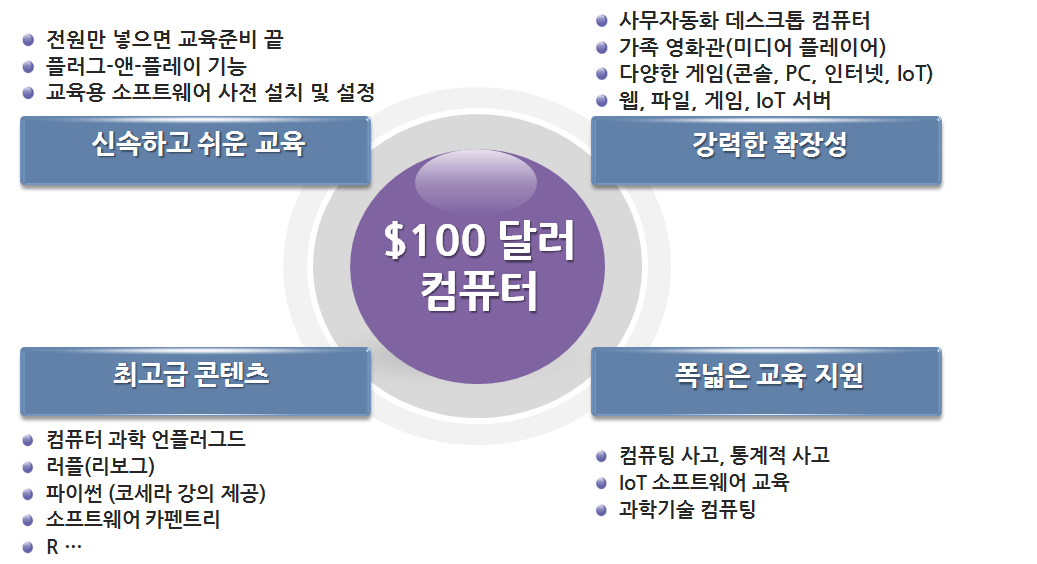
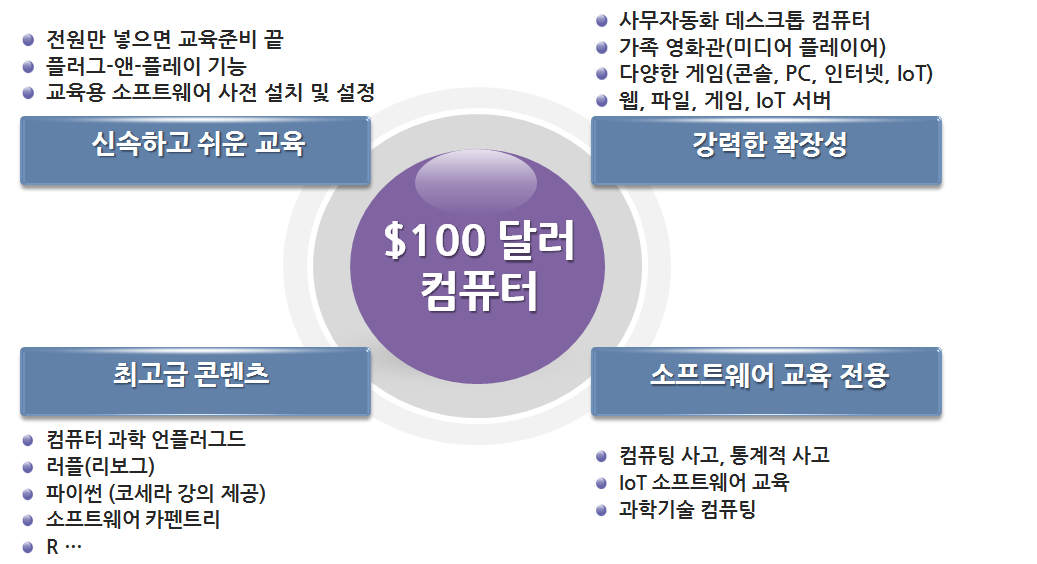
commit 100 dollar computer initial page

Changed region(s): [[0.6172, 0.633, 0.864, 0.6933]]

diff --git a/_includes/footer.html b/_includes/footer.html
@@ -6,8 +6,7 @@
         <div class="col-lg-offset-3 col-lg-6">
             <div class="row">
               <div class="col-xs-12 text-center">
-                <small>&copy; rifyll theme, 2014, 
-                Powered by <a href="http://www.ibm.com/cloud-computing/kr/ko/softlayer/"><img src="/img/softlayer.png" width="47" height="23" alt="hosting services" /></a> </small>
+                <small>&copy; rifyll theme, 2014</small>
               </div>
             </div>
         </div>

diff --git a/computer/index.md b/computer/index.md
@@ -29,33 +29,88 @@ date: 2015-07-01 23:51
 1. 플러그-앤-플레이 기능과 소프트웨어가 사전 설치되어 교육 자체에 신속히 몰입할 수 있게 도와줍니다.
 1. 전세계에서 선택된 최고급 교육 콘텐츠를 무료로 제공하여 드립니다.
     - 무료제공되는 [파이썬 교재](http://python.xwmooc.org)는 [코세라(Coursera)](https://www.coursera.org/specializations/python)에서 강의 교재로 사용되고 있습니다.
-    - [소프트웨어 카펜트리](http://software-carpentry.org/)는 과학 컴퓨팅(Scientific Computing)을 위한 소프트웨어 기술보급에 매진하고 있는   
+    - [소프트웨어 카펜트리](http://software-carpentry.org/)는 과학 컴퓨팅(Scientific Computing)을 위한 소프트웨어 기술보급 활동을 전세계적으로 활발히 추진하고 있고, [xwMOOC](http://swcarpentry.xwmooc.org/)에서 '14년부터 활발히 참여하고 있습니다.   
+    - 뉴질랜드 팀벨 교수가 주도가 되어 ‘90년대부터 시작된 [컴퓨터 과학 언플러그드](http://csunplugged.org)는 컴퓨터 없이 컴퓨터 과학 개념을 잡을 수 있는 컴퓨터공학 비전공자가 처음 시작하는 교재로 많이 활용되고 있고, [xwMOOC 언플러그드](http://unplugged.xwmooc.org/)에서 한글화되어 무료로 제공하고 있습니다.
+    - 캐나다 Andre Roberge 총장이 주도되어 2000년대 중반부터 시작된 [러플(RUR-PLE)](http://rur-ple.sourceforge.net/)은 현재 [Reeborg](http://reeborg.ca/)로 확장되어 새로이 시작되고 있고, [xwMOOC 러플](http://rur-ple.xwmooc.org/)은 [GitHub 저장소](https://github.com/statkclee/rur-ple)에서도 만날 수 있다.
+1. 리눅스 운영체제를 기반으로 안정되게 다양한 기능을 제공합니다.
+    - 사무자동화 데스트톱 컴퓨터
+    - 가족 영화관 (미디어 플레이어)
+    - 콘솔, PC, 인터넷, IoT 게임
+    - 웹서버, 파일 서버, IoT 서버, 미디어 서버 등 
+1. 소프트웨어 교육 전용 컴퓨터   
+    - 컴퓨팅 사고(Computational Thinking)과 통계적 사고 및 논리적 사고 향상
+    - 과학기술 컴퓨팅(Scientific Computing)
+    - IoT(사물 인터넷) 및 피지컬 컴퓨팅(Physical Computing) 교육
 
 <img src="fig/benefits-of-100-computers.png" alt="사고체계와 대한민국" width="70%" />
 
+### $100 달러 컴퓨터 구성
 
+<img src="fig/100-dollar-computer-tear-down.png" alt="$100 달러 컴퓨터 구성요소" width="70%" />
 
-### $100 달러 컴퓨터 개발 필요성
+#### 하드웨어
+
+|              구분        |      라즈베리 파이 2 (모델 B) |
+|:----------------------:|:---------------------------------:|
+| SOC(System-on-Chip)  |  BCM2836           |
+| GPU                  |  브로드컴 VideoCore IV      |
+| CPU                  | ARM Cortex A7 900 MHz |
+| 주기억장치            |  1 GB                              |
+| USB 포트            | 4                                     |
+| 이더넷 포트           | 1                                     |
+| 가격                    | $35                                 |
+| 전력                    | 800 mA (5V)                    | 
+| 하드디스크            | 마이크로SD (16GB)           |
+| 컴퓨터 케이스        | xwMOOC 특허 케이스         |
+
+#### 소프트웨어
+
+- [파이썬 2, 3](https://www.python.org/)
+- [아나콘다](http://continuum.io/)
+- [러플(Rur-ple)](http://rur-ple.sourceforge.net/)
+- [소프트웨어 카펜트리](http://software-carpentry.org/workshops/setup.html)
+- [R](https://www.r-project.org/)
+
+#### 콘텐츠
+
+- [컴퓨터과학 언플러그드 3.1](http://unplugged.xwmooc.org/)
+- [소프트웨어 카펜트리 5.2](http://swcarpentry.xwmooc.org/)
+- [러플(Rur-ple)](http://rur-ple.xwmooc.org/)
+- [정보교육을 위한 파이썬](http://python.xwmooc.org/)
+- [R 팩키지](http://r-pkgs.xwmooc.net/)
+- [라즈베리 파이](http://raspberry-pi.xwmooc.org/)
+
+### $100 달러 컴퓨터로 할 수 있는 것 (일부)
  
-전설적 넷스케이프 웹브라우져를 만든 마크 앤드리슨은 월스트리트 저널 기사, [Why Software Is Eating The World](http://www.wsj.com/articles/SB10001424053111903480904576512250915629460)을 통해 소프트웨어가 세상을 집어 삼키고 있다고 표현했고, 개인적으로 본다면 
-SXSW 2010년에 이미 [Douglas Rushkoff](http://www.youtube.com/watch?v=imV3pPIUy1k)는 `프로그래밍 하느냐 프로그래밍 되느냐(Program or be Programmed)`를 선택해야 되는 시대가 되었다. 하지만, 컴퓨터적 사고를 갖춘 융합인력 수요의 지속적 증가에도 불구하고, 융합시대를 견인할 IT융합 인력 부족하다.
+<img src="fig/raspberry-pi-fullstack-toolchain.png" width="70%" />
 
-- 10대 IT융합분야 IT융합인력 수요전망 : ('12년) 2,388 &mdash; ('14년) 2,676  &mdash; ('16년) 2,943 (한국직업능력개발원,'13년)
-- 방송통신 소프트웨어 활용도는 50%가 넘고, 제조업 전반에 소프트웨어 활용도가 증가하고 있으나 KAIST를 비롯한 컴퓨터 관련 학과 전공자는 줄어들고 있음
+#### 1. 가정 영화관 (Home Theater) 
 
-![삼성경제연구소 산업별 소프트웨어 활용도(산출물 1억 생산에 SW 활용지수)](/img/seri-sw-research-2011.png)
+라즈베리 파이 2는 기존 브로드컴 BCM2835칩을 개선한 BCM2836칩을 사용하는데, H.264 형식을 사용해서 고해상도 비디오 정보를 고속으로 전송할 수 있다. 가족용 영화관 구성을 위해서 크기가 작고, 저전력이며 조용한 운영방식이 필요한데 라즈베리파이는 이 요건을 잘 충족하고 있다.
 
-### 개발 기술의 독창성 및 도전성
+#### 2. 사무 자동화 (오피스) 
 
-- **(문제정의)** 기존 컴퓨터 교육은 고비용, 비효율
-    1. 윈도우, 맥, 리눅스 플랫폼 기반 컴퓨터 교육을 별도 실시해야 함
-    1. 컴퓨터 하드웨어, 소프트웨어, 코드와 데이터, 콘텐츠 등 준비해야 함
-    1. 학습자가 컴퓨터 교육 실시 전 환경설정에 많은 시간 및 노력 소요됨
+워드, 한글, 파워포인트 등 사무작업을 위한 [마이크로소프트 오피스](https://products.office.com/ko-KR/)가 상업용으로 많이 사용되고 있지만, 마이크로소프트 상용 오피스 제품에 대응되는 공개 오피스 소프트웨어도 다양하다. 
+[리브레 오피스(LibreOffice)](http://www.libreoffice.org/)는 기존 [오픈 오피스(Open Office)](http://www.openoffice.org/) 개발에 참여한 인력이 나와서 만든 공개 오피스 제품으로 아래한글 뿐만 아니라 마이크로소프트 오피스와도 기능적 별반 차이가 없다. 최근에는 오피스 작업 파일간 호환성도 많이 개선되어 평균적인 기능을 사용한다는 측면에서 공개 소프트웨어 활용도가 많이 높아졌다.
 
-- **(xwMOOC 해결책)** : $100 달러 컴퓨터
-    1. 컴퓨터에 사전 설치되어 즉시 교육 실시 
-    1. 컴퓨터 하드웨어, 소프트웨어, 코드, 데이터, 콘텐츠, 네트워크 
-    1. 별도 모니터 필요없이 TV 연결하여 온전한 컴퓨터 변신
-    1. $100 달러 (약 10만원) 컴퓨터로 착한 가격
+[리브레오피스 한국어 사이트](http://ko.libreoffice.org/)에서 공식적인 정보를 얻을 수 있으며, Pootle 서버를 통해서 [한국어 번역](https://translations.documentfoundation.org/)어 번역이 활발히 진행되고 있다. [다큐먼트 재단 홈페이지](http://www.documentfoundation.org)가 공식 홈페이지이며, 과학 IT 동아에서 [무료 오피스의 진수, '리브레 오피스'](http://it.donga.com/21009/) 제목으로 리브레 오피스에 대해 기사로 소개가 되었다.
 
-![$100 컴퓨터](/img/100-dolloar-computer.png)
+|   | 국문 | 영어 | 설명                                                                                        |
+|---|:--------:|:--------:|---------------------------------------------------------------------------------------------|
+| <img src="fig/80px-LibreOffice_3.3.1_Writer_Icon.png" width="30%" />    |  라이터  |   Writer | 워드프로세서 프로그램으로 마이크로소프트 워드와 비슷하며 기본적인 위지위그 편집기를 지녔다. |
+| <img src="fig/80px-LibreOffice_3.3.1_Calc_Icon.png" width="30%" />    |   캘크   |     Calc | 스프레드시트 프로그램이다. 마이크로소프트 엑셀 또는 로터스 1-2-3과 비슷하다.                |
+| <img src="fig/80px-LibreOffice_3.3.1_Impress_Icon.png" width="30%" />    | 임프레스 |  Impress | 프레젠테이션 프로그램이다. 마이크로소프트 파워포인트와 비슷하다.                            |
+| <img src="fig/80px-LibreOffice_3.3.1_Base_Icon.png" width="30%" />    | 베이스   | Base     | 데이터베이스 관리 프로그램이다. 마이크로소프트 액세스와 비슷하다.                           |
+| <img src="fig/80px-LibreOffice_3.3.1_Draw_Icon.png" width="30%" />    | 드로우   | Draw     | 벡터 그래픽 에디터다. 도표 프로그램인 마이크로소프트 비지오와 비슷하다.                     |
+| <img src="fig/80px-LibreOffice_3.3.1_Math_Icon.png" width="30%" />    | 매쓰     | Math     | 수학 공식을 만들고 수정하는 프로그램이다. 마이크로소프트 수식편집기와 유사하다.             |
+
+
+#### 3. 김프(Gimp) 이미지 편집
+
+이미지 편집 분야에서 가장 많이 사용되는 것이 김프(GNU Image Maniuplation Program, GIMP)다. 김프는 상용 그래픽 편집 프로그램 아도비사 포토샵에 대응되도록 공개 소프트웨어 진영에서 개발한 소프트에어로 일부 기능이나 사용법에서 차이가 있지만, 상당부분 유사하다. 마치 마이크로소프트 오피스와 리브레 오피스와 비교하면 느낌이 올 것이다. 설치 방법은 `sudo apt-get install gimp` 다.
+
+#### 4. LaTeX 으로 전자 출판 작업
+
+스탠포드 대학 D. Knuth 교수가 창안한 TeX은 현존하는 가장 훌륭한 조판 엔진(typesetting engine) 중 하다.  `texlive-full` 을 설치하면 저장공간은 제법 차지하지만 별도 팩키지를 설치할 필요없어 초보자가 탁상전자출판을 시작하기 딱 좋다. 다양한 TeX 작업을 위한 프론트엔드(front-end) 편집기가 있지만, 크로스 플랫폼을 지원하는 [TeXworks](http://tug.org/texworks/)을 사용하면 생산성을 많이 높일 수 있다.
+
+

diff --git a/computationalthinking/index.md b/computationalthinking/index.md
@@ -4,6 +4,15 @@ title: 컴퓨터적 사고 (Computational Thinking)
 date: 2015-07-01 23:51
 ---
 
+전설적 넷스케이프 웹브라우져를 만든 마크 앤드리슨은 월스트리트 저널 기사, [Why Software Is Eating The World](http://www.wsj.com/articles/SB10001424053111903480904576512250915629460)을 통해 소프트웨어가 세상을 집어 삼키고 있다고 표현했고, 개인적으로 본다면 
+SXSW 2010년에 이미 [Douglas Rushkoff](http://www.youtube.com/watch?v=imV3pPIUy1k)는 `프로그래밍 하느냐 프로그래밍 되느냐(Program or be Programmed)`를 선택해야 되는 시대가 되었다. 하지만, 컴퓨터적 사고를 갖춘 융합인력 수요의 지속적 증가에도 불구하고, 융합시대를 견인할 IT융합 인력 부족하다.
+
+- 10대 IT융합분야 IT융합인력 수요전망 : ('12년) 2,388 &mdash; ('14년) 2,676  &mdash; ('16년) 2,943 (한국직업능력개발원,'13년)
+- 방송통신 소프트웨어 활용도는 50%가 넘고, 제조업 전반에 소프트웨어 활용도가 증가하고 있으나 KAIST를 비롯한 컴퓨터 관련 학과 전공자는 줄어들고 있음
+
+![삼성경제연구소 산업별 소프트웨어 활용도(산출물 1억 생산에 SW 활용지수)](/img/seri-sw-research-2011.png)
+
+
 ### 컴퓨터적 사고 (Computational Thinking)
  
 카네기멜론 대학의 쟈넷 윙 교수는 **이론적 사고(Theoretical Thinking)**, **실험적 사고(Experimental Thinking)**와 더불어 **컴퓨터적 사고(Computational Thinking)**가 향후 인간의 사고 체제를 지배하는 중추적인 역할을 할 것이라고 합니다.컴퓨터적 사고와 통계적 사고는 기존의 물질적 불평등보다 더 심한 양극화를 디지털 경제의 정보 불평등(Digital Divide)을 통해서 가져올 것으로 예측이 됩니다.
